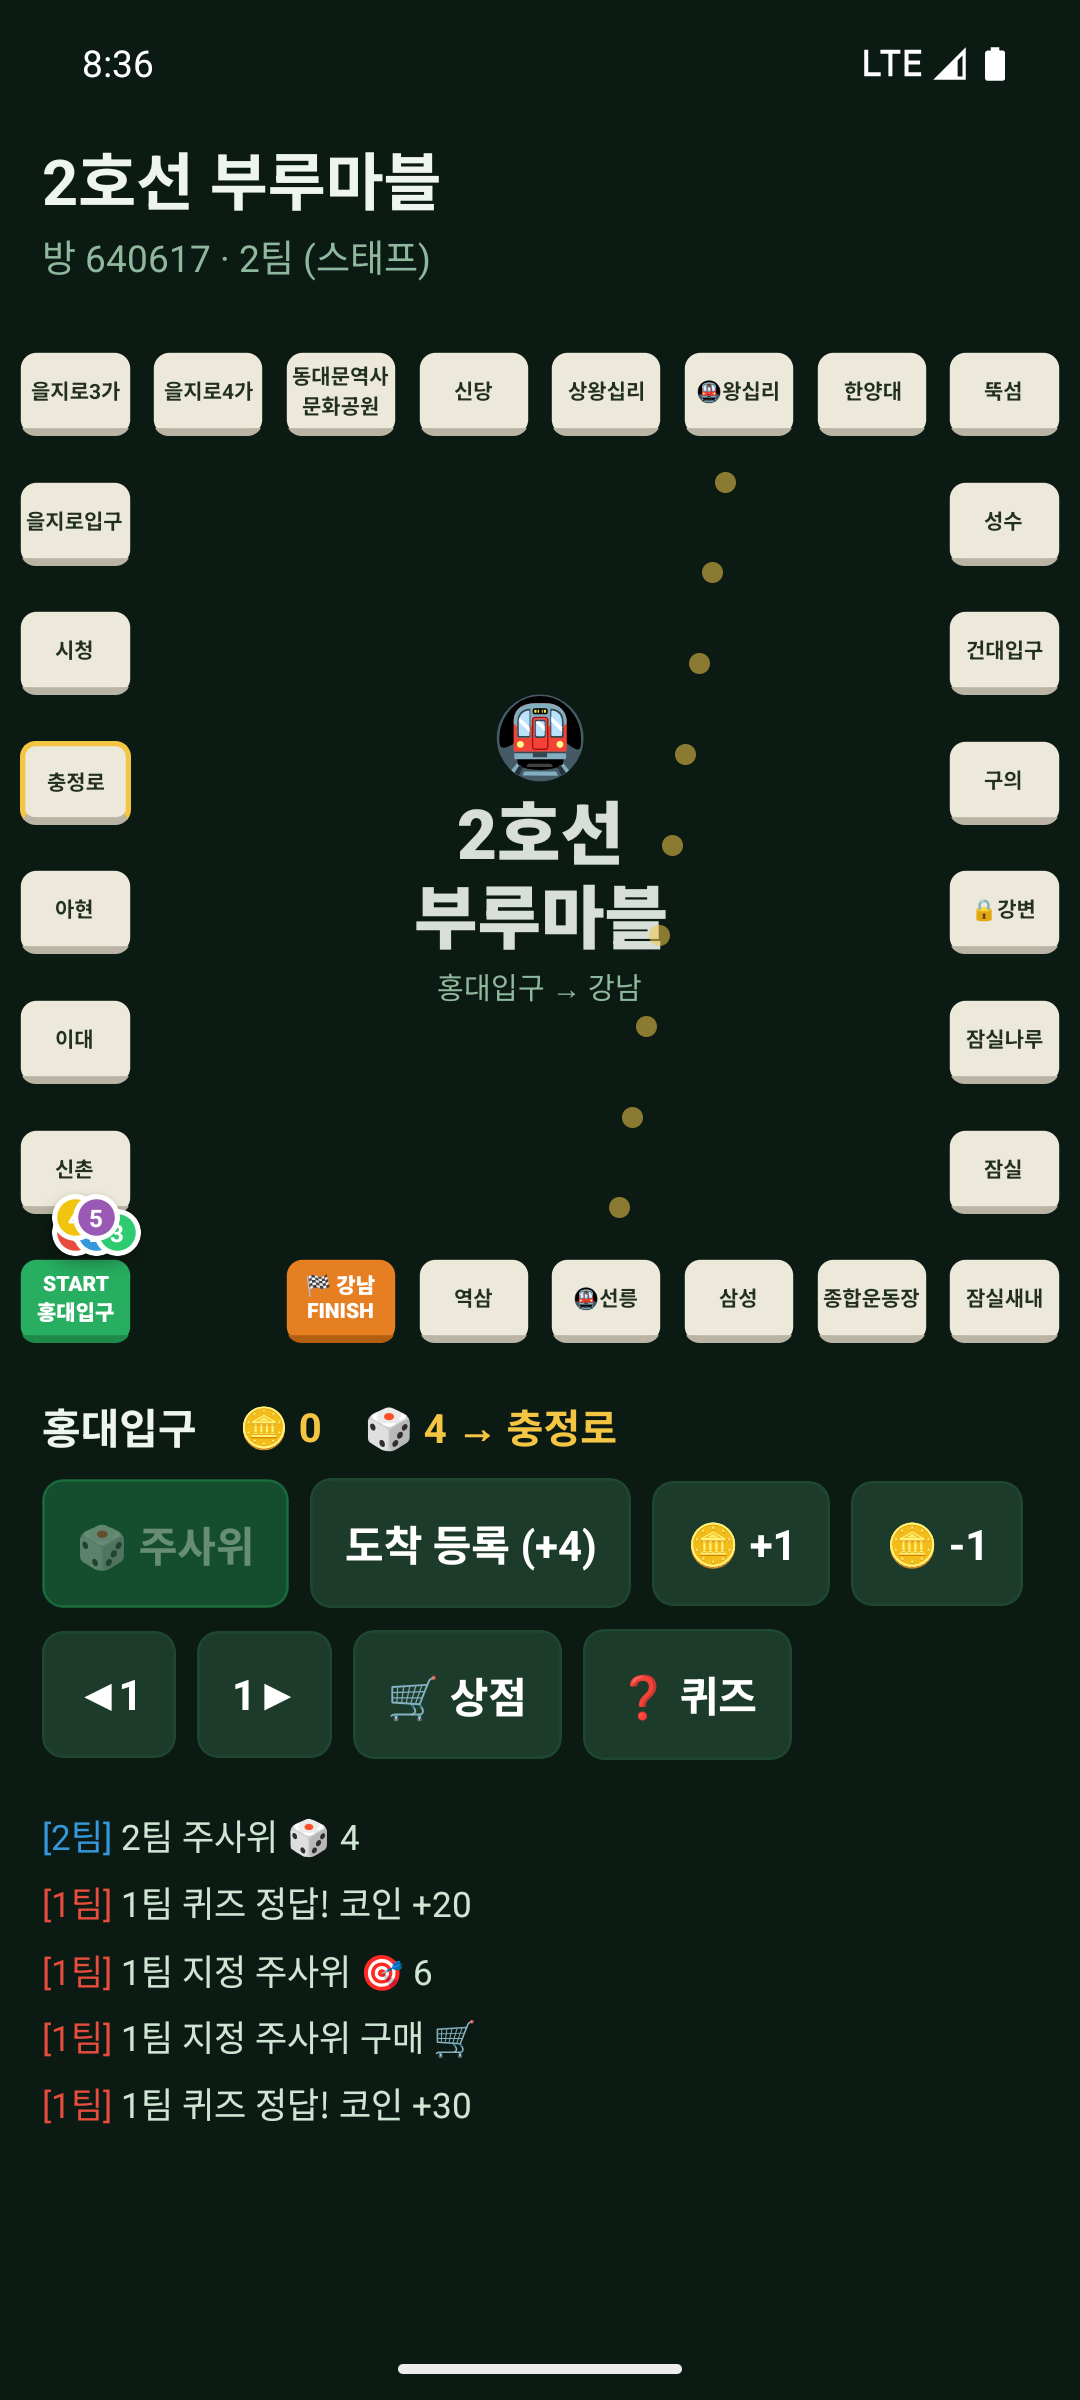
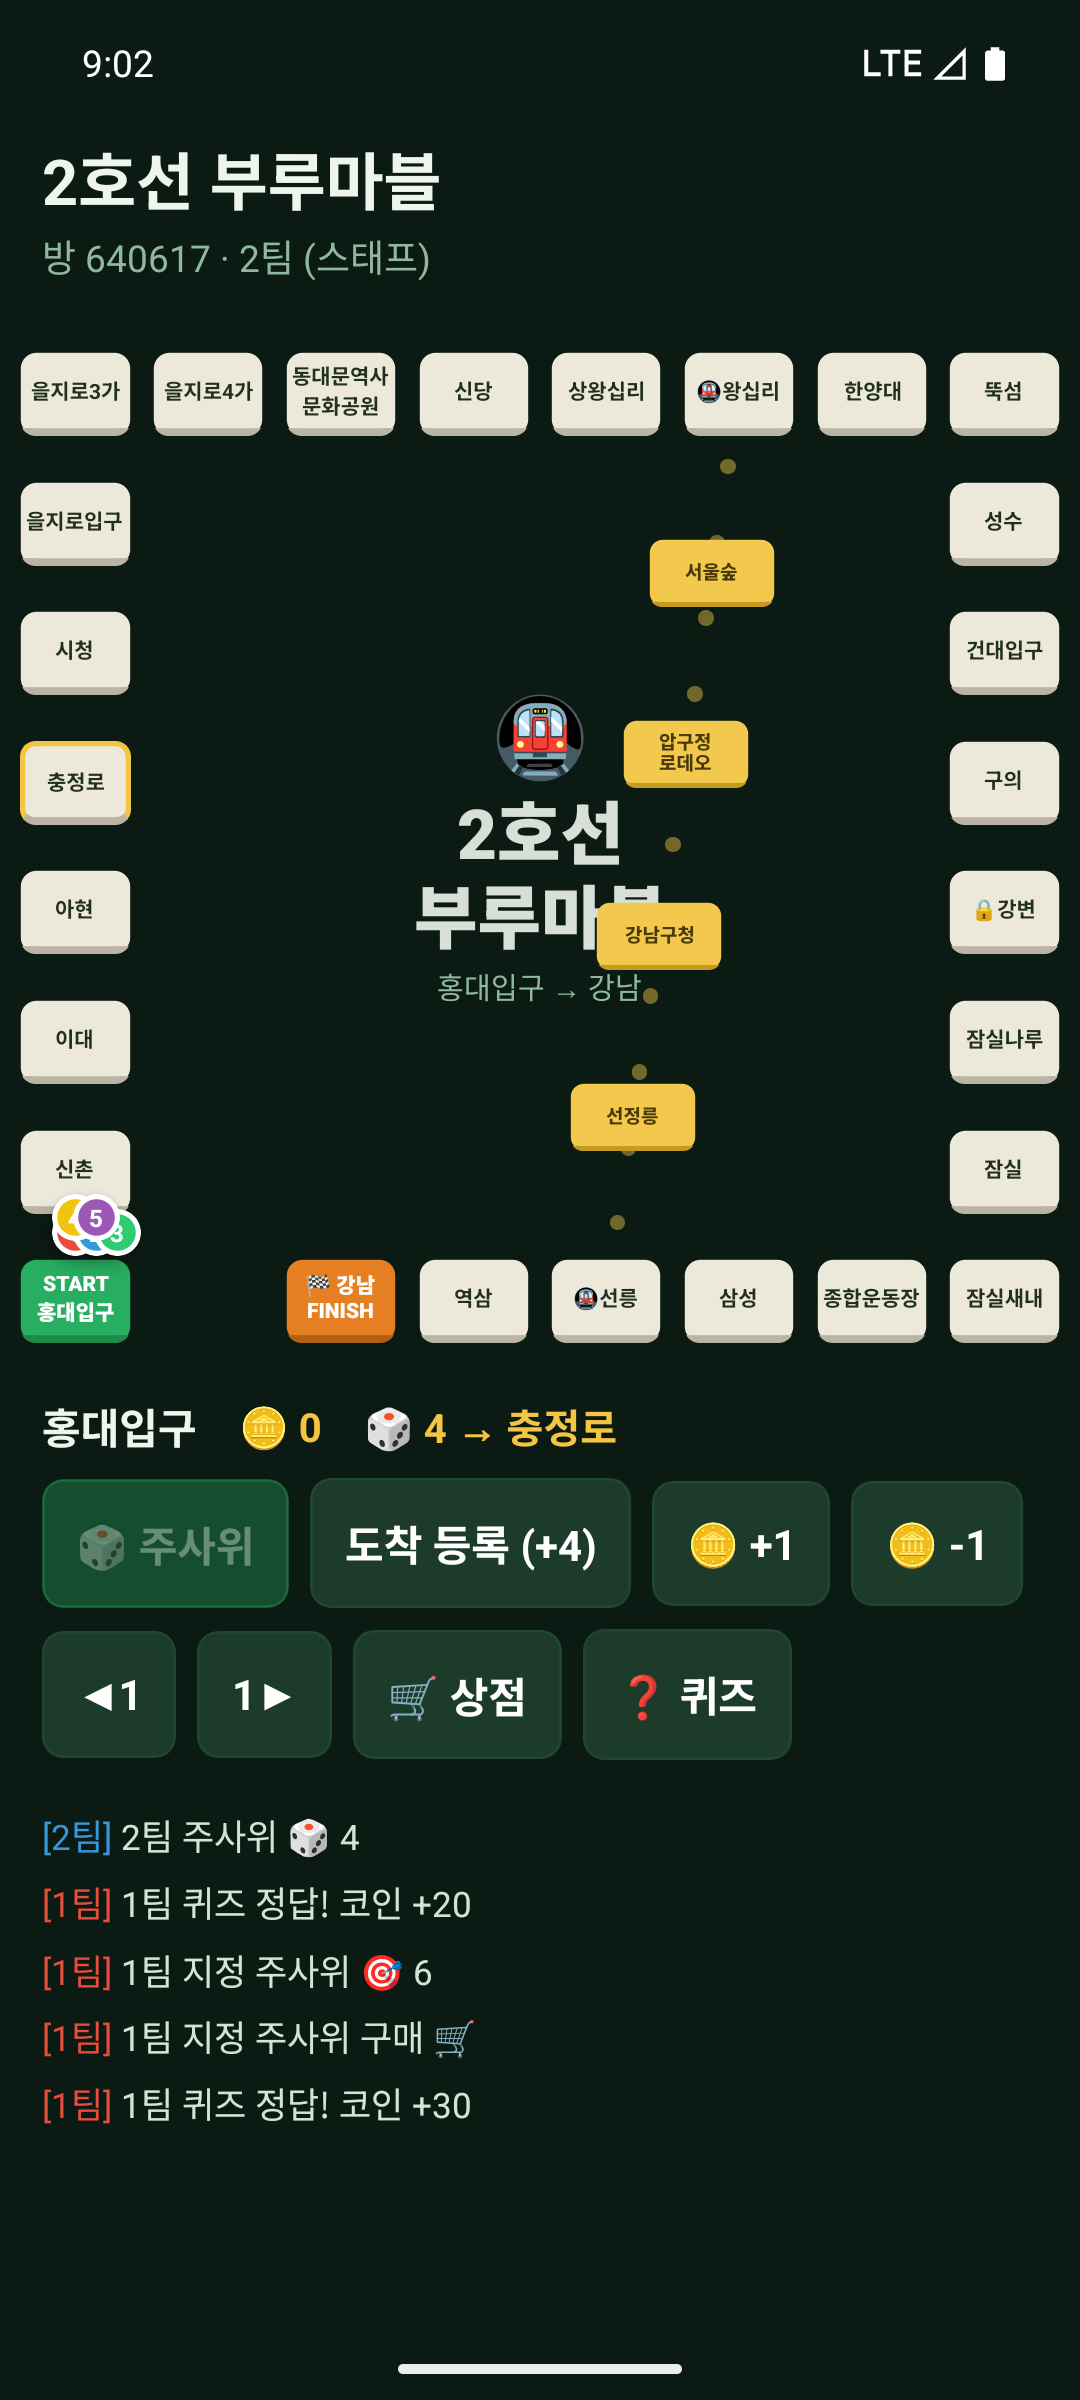
feat: 지름길 경유역 타일 표시 (서울숲·압구정로데오·강남구청·선정릉)
Claude-Session: https://claude.ai/code/session_0184HqqucZMK66KovsXXAw9d

Changed region(s): [[0.5806, 0.1875, 0.7333, 0.3438], [0.5194, 0.375, 0.6722, 0.5312], [0.1222, 0.0, 0.1528, 0.0312]]

diff --git a/App.js b/App.js
@@ -9,7 +9,9 @@ import {
   query, orderBy, limit,
 } from 'firebase/firestore';
 import { db, ensureAuth } from './src/firebase';
-import { STATIONS, FINISH, WANGSIMNI, SEOLLEUNG, JAIL, TEAM_COLORS } from './src/stations';
+import {
+  STATIONS, FINISH, WANGSIMNI, SEOLLEUNG, JAIL, SHORTCUT_STATIONS, TEAM_COLORS,
+} from './src/stations';
 import { RANDOM_MISSIONS, STATION_MISSIONS } from './src/missions';
 import { ITEMS, itemById, IS_ATTACK, CATS } from './src/items';
 import { registerPush, sendPush, applyUpdateIfAny } from './src/push';
@@ -616,19 +618,34 @@ function Board({ session }) {
           <Text style={st.boardLogo}>2호선{'\n'}부루마블</Text>
           <Text style={st.boardLogoSub}>홍대입구 → 강남</Text>
         </View>
-        {/* 지름길 점선 경로 (왕십리 ↔ 선릉, 수인분당선) */}
-        {Array.from({ length: 9 }, (_, i) => {
-          const t = (i + 1) / 10;
+        {/* 지름길 경로 (왕십리 ↔ 선릉, 수인분당선): 점선 + 경유역 미니 타일 */}
+        {Array.from({ length: 11 }, (_, i) => {
+          const t = (i + 1) / 12;
           const a = STATIONS[WANGSIMNI];
           const b = STATIONS[SEOLLEUNG];
           return (
             <View
-              key={`sc${i}`}
+              key={`scd${i}`}
               style={[st.shortcutDot, {
-                left: (a.x + (b.x - a.x) * t) * boardSize - 4,
-                top: (a.y + (b.y - a.y) * t) * boardSize - 4,
+                left: (a.x + (b.x - a.x) * t) * boardSize - 3,
+                top: (a.y + (b.y - a.y) * t) * boardSize - 3,
               }]}
             />
+          );
+        })}
+        {SHORTCUT_STATIONS.map((name, i) => {
+          const t = (i + 1) / (SHORTCUT_STATIONS.length + 1);
+          const a = STATIONS[WANGSIMNI];
+          const b = STATIONS[SEOLLEUNG];
+          return (
+            <View
+              key={`scs${name}`}
+              style={[st.shortcutStation, {
+                left: (a.x + (b.x - a.x) * t) * boardSize - 24,
+                top: (a.y + (b.y - a.y) * t) * boardSize - 13,
+              }]}>
+              <Text style={st.shortcutStationText} numberOfLines={2}>{name}</Text>
+            </View>
           );
         })}
         {/* 주사위 연출 오버레이 */}
@@ -1059,8 +1076,17 @@ const st = StyleSheet.create({
   stationFinish: { backgroundColor: C.orange, borderBottomColor: '#b35f12' },
   stationTarget: { borderWidth: 2, borderColor: C.gold }, // 이동 목적지
   shortcutDot: {
-    position: 'absolute', width: 8, height: 8, borderRadius: 4,
-    backgroundColor: '#f2c94c', opacity: 0.55, // 수인분당선 노란 계열
+    position: 'absolute', width: 6, height: 6, borderRadius: 3,
+    backgroundColor: '#f2c94c', opacity: 0.45, // 수인분당선 노란 계열
+  },
+  shortcutStation: {
+    position: 'absolute', width: 48, height: 26, borderRadius: 5,
+    justifyContent: 'center', alignItems: 'center', paddingHorizontal: 2,
+    backgroundColor: '#f2c94c',
+    borderBottomWidth: 2, borderBottomColor: '#c49b1e',
+  },
+  shortcutStationText: {
+    color: '#4a3a08', fontSize: 7, fontWeight: '800', textAlign: 'center', lineHeight: 8,
   },
   stationText: { color: C.tileText, fontSize: 8, fontWeight: '700', textAlign: 'center' },
   stationTextSpecial: { color: '#fff', fontSize: 8, fontWeight: '900' },

diff --git a/src/stations.js b/src/stations.js
@@ -26,6 +26,9 @@ export const WANGSIMNI = NAMES.indexOf('왕십리'); // 지름길 출발 (정확
 export const SEOLLEUNG = NAMES.indexOf('선릉');   // 지름길 도착 (수인분당선 환승)
 export const JAIL = NAMES.indexOf('강변');        // 감옥
 
+// 지름길 경유역 (수인분당선 왕십리→선릉, 통과만 하는 표시용 칸)
+export const SHORTCUT_STATIONS = ['서울숲', '압구정\n로데오', '강남구청', '선정릉'];
+
 export const TEAM_COLORS = {
   1: '#e74c3c', 2: '#3498db', 3: '#2ecc71', 4: '#f1c40f',
   5: '#9b59b6', 6: '#e67e22', 7: '#1abc9c', 8: '#fd79a8',
